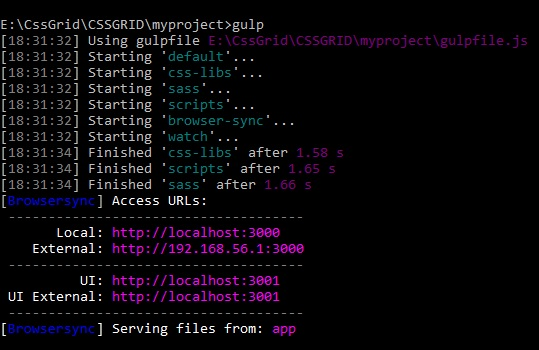
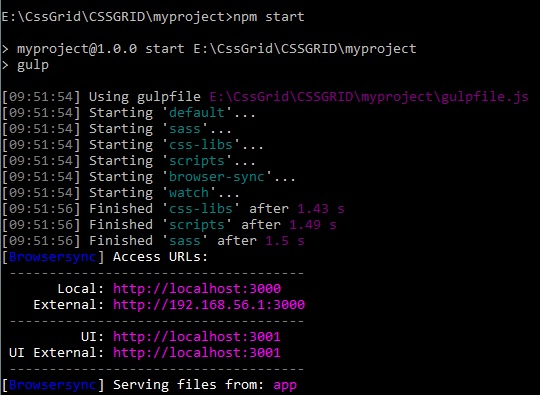
updated final README with npm start

Changed region(s): [[0.0, 0.0286, 0.9796, 1.0]]

diff --git a/README.md b/README.md
@@ -5,11 +5,11 @@ i have learned some new info for myself
 
 ### To run the test, 
 - open the command line in the file directory, 
-- enter **"gulp"** and wait ... 
+- enter **"npm start"** and wait ... 
 > a browser window will open with the result of the work I have done.
 
 ### code in cmd
-```gulp```
+```npm start```
 
 ### Result
 ![Image of cmd](app/img/cmd.jpg)
